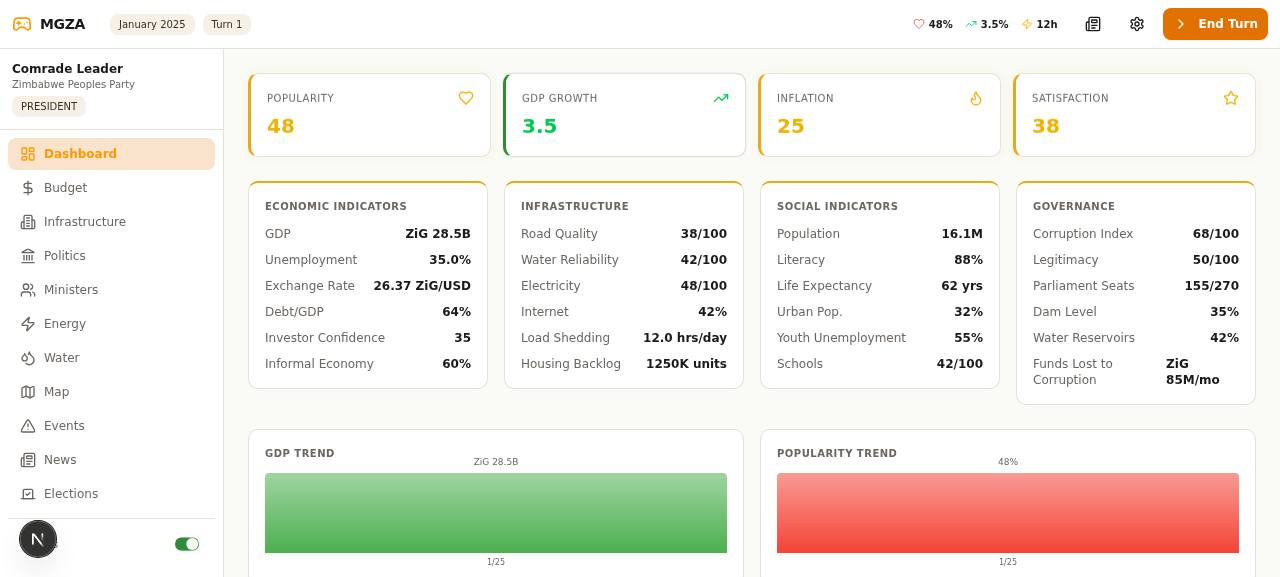
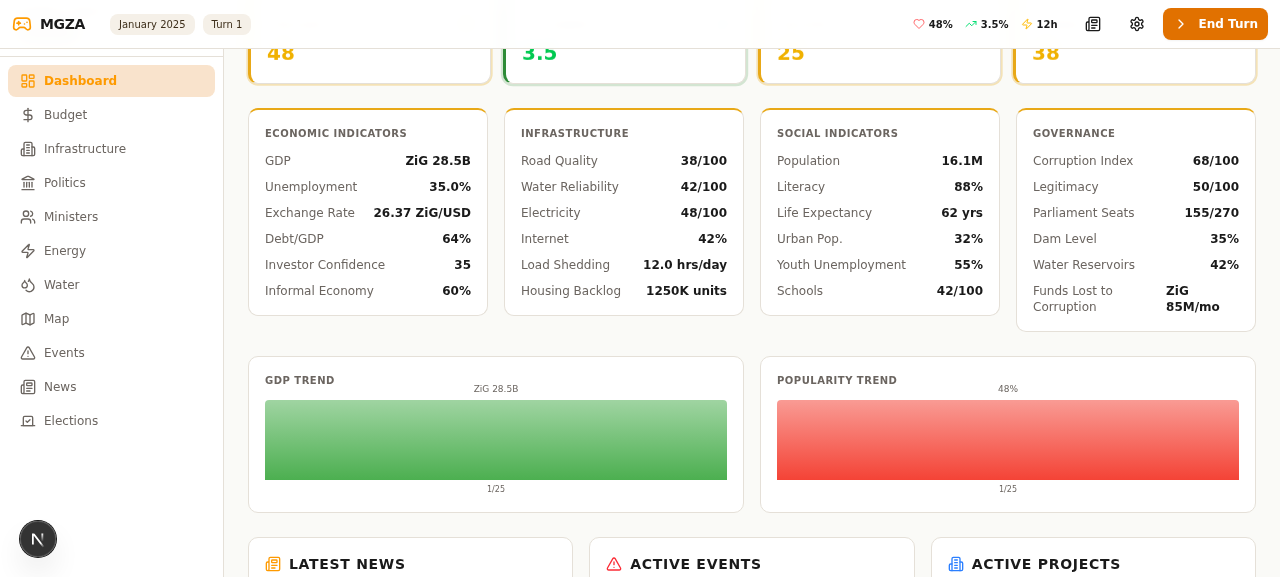
9d5519d6-0c13-4080-a3db-f02370916a15

diff --git a/src/app/page.tsx b/src/app/page.tsx
@@ -326,119 +326,76 @@ const FONT_SIZE_MAP: Record<FontSize, string> = {
 // Always renders wrapper div to prevent layout shift when toggling.
 // ═══════════════════════════════════════════════════════
 
+// Context for shared hover tip state: renders tip card in sidebar below Elections
+const TipHoverContext = React.createContext<{
+  hoveredTipId: string | null;
+  setHoveredTipId: (id: string | null) => void;
+}>({ hoveredTipId: null, setHoveredTipId: () => {} });
+
 function HoverTip({ tipId, children, screenId }: { tipId: string; children: React.ReactNode; screenId?: GameScreen }) {
   const { enableTips, currentScreen } = useGameStore();
-  const { getTip } = useTranslation();
-  const [show, setShow] = useState(false);
-  const [coords, setCoords] = useState({ top: 0, left: 0, arrowSide: 'top' as 'top' | 'bottom' });
   const gameTip = GAME_TIPS[tipId];
   const isActive = enableTips && gameTip && (!gameTip.screen || gameTip.screen === screenId || gameTip.screen === currentScreen);
-  const tip = getTip(tipId);
-  const triggerRef = useRef<HTMLDivElement>(null);
-
-  // Check if tip should render at all
-  // isActive already computed above using gameTip for screen check, tip for display
-
-  const updatePosition = useCallback(() => {
-    const el = triggerRef.current;
-    if (!el) return;
-    const rect = el.getBoundingClientRect();
-    const tipWidth = 320; // w-80 = 20rem = 320px
-    const tipHeight = 180; // approximate
-    const gap = 8;
-    const viewportHeight = window.innerHeight;
-    const viewportWidth = window.innerWidth;
-
-    // Prefer showing above, but flip below if no room
-    const showAbove = rect.top > tipHeight + gap + 50; // 50px buffer for header
-    const arrowSide = showAbove ? 'top' : 'bottom';
-
-    let top: number;
-    if (showAbove) {
-      top = rect.top - tipHeight - gap;
-    } else {
-      top = rect.bottom + gap;
-    }
-
-    // Center horizontally, but clamp to viewport edges
-    let left = rect.left + rect.width / 2 - tipWidth / 2;
-    left = Math.max(8, Math.min(left, viewportWidth - tipWidth - 8));
-
-    setCoords({ top: Math.max(4, top), left, arrowSide });
-  }, []);
+  const { setHoveredTipId } = React.useContext(TipHoverContext);
 
   const handleEnter = useCallback(() => {
     if (!isActive) return;
-    updatePosition();
-    setShow(true);
-  }, [isActive, updatePosition]);
+    setHoveredTipId(tipId);
+  }, [isActive, tipId, setHoveredTipId]);
 
-  const handleLeave = useCallback(() => setShow(false), []);
-
-  // Update position on scroll / resize while visible
-  useEffect(() => {
-    if (!show) return;
-    updatePosition();
-    const onScroll = () => updatePosition();
-    const onResize = () => updatePosition();
-    window.addEventListener('scroll', onScroll, true);
-    window.addEventListener('resize', onResize);
-    return () => {
-      window.removeEventListener('scroll', onScroll, true);
-      window.removeEventListener('resize', onResize);
-    };
-  }, [show, updatePosition]);
+  const handleLeave = useCallback(() => setHoveredTipId(null), [setHoveredTipId]);
 
   return (
     <div
-      ref={triggerRef}
       className="contents"
       onMouseEnter={handleEnter}
       onMouseLeave={handleLeave}
     >
       {children}
-      <AnimatePresence>
-        {show && isActive && (
-          <motion.div
-            initial={{ opacity: 0, scale: 0.92 }}
-            animate={{ opacity: 1, scale: 1 }}
-            exit={{ opacity: 0, scale: 0.92 }}
-            transition={{ duration: 0.12, ease: 'easeOut' }}
-            style={{ position: 'fixed', top: coords.top, left: coords.left, width: 320, zIndex: 9999 }}
-            className="pointer-events-none"
-          >
-            <div className="bg-popover border border-border rounded-lg shadow-xl p-3.5 text-left">
-              {/* Header */}
-              <div className="flex items-center gap-2 mb-2">
-                <div className="flex items-center justify-center w-6 h-6 rounded-md bg-amber-500/15 text-amber-500 shrink-0">
-                  <Lightbulb className="h-3.5 w-3.5" />
-                </div>
-                <h4 className="text-xs font-bold text-foreground">{tip.title}</h4>
-              </div>
-              {/* Description */}
-              <p className="text-[0.6875rem] text-muted-foreground leading-relaxed mb-2">{tip.description}</p>
-              {/* Strategy */}
-              <div className="border-t border-border/50 pt-2">
-                <div className="flex items-start gap-1.5">
-                  <Info className="h-3 w-3 text-amber-500 mt-0.5 shrink-0" />
-                  <p className="text-[0.625rem] text-amber-600 font-medium leading-relaxed">{tip.strategy}</p>
-                </div>
-              </div>
-            </div>
-            {/* Arrow */}
-            {coords.arrowSide === 'bottom' ? (
-              <div className="absolute bottom-full left-[var(--arrow-x)] -translate-x-1/2 -mb-px">
-                <div className="w-2 h-2 bg-popover border-l border-t border-border rotate-45" />
-              </div>
-            ) : (
-              <div className="absolute top-full left-[var(--arrow-x)] -translate-x-1/2 -mt-px">
-                <div className="w-2 h-2 bg-popover border-r border-b border-border rotate-45" />
-              </div>
-            )}
-          </motion.div>
-        )}
-      </AnimatePresence>
     </div>
+  );
+}
+
+// ═══════════════════════════════════════════════════════
+// HOVER TIP CARD (renders in sidebar below Elections)
+// ═══════════════════════════════════════════════════════
+
+function HoverTipCard() {
+  const { enableTips } = useGameStore();
+  const { getTip } = useTranslation();
+  const { hoveredTipId } = React.useContext(TipHoverContext);
+  const gameTip = hoveredTipId ? GAME_TIPS[hoveredTipId] : null;
+  const tip = gameTip ? getTip(hoveredTipId) : null;
+
+  if (!enableTips || !tip) return null;
+
+  return (
+    <AnimatePresence mode="wait">
+      <motion.div
+        key={hoveredTipId}
+        initial={{ opacity: 0, height: 0 }}
+        animate={{ opacity: 1, height: 'auto' }}
+        exit={{ opacity: 0, height: 0 }}
+        transition={{ duration: 0.15 }}
+        className="mx-1 mb-1"
+      >
+        <div className="bg-popover border border-border rounded-lg shadow-sm p-2.5 text-left">
+          <div className="flex items-center gap-2 mb-1.5">
+            <div className="flex items-center justify-center w-5 h-5 rounded-md bg-amber-500/15 text-amber-500 shrink-0">
+              <Lightbulb className="h-3 w-3" />
+            </div>
+            <h4 className="text-[0.625rem] font-bold text-foreground">{tip.title}</h4>
+          </div>
+          <p className="text-[0.5625rem] text-muted-foreground leading-relaxed mb-1.5">{tip.description}</p>
+          <div className="border-t border-border/50 pt-1.5">
+            <div className="flex items-start gap-1">
+              <Info className="h-2.5 w-2.5 text-amber-500 mt-0.5 shrink-0" />
+              <p className="text-[0.5625rem] text-amber-600 font-medium leading-relaxed">{tip.strategy}</p>
+            </div>
+          </div>
+        </div>
+      </motion.div>
+    </AnimatePresence>
   );
 }
 
@@ -1519,7 +1476,7 @@ function StartScreen() {
         <div className="w-full h-1" style={{ backgroundColor: '#2E8B37' }} />
         <div className="w-full h-1" style={{ backgroundColor: '#E8A817' }} />
         <div className="w-full h-1" style={{ backgroundColor: '#CC2936' }} />
-        <div className="w-full h-1" style={{ backgroundColor: '#1a1a1a' }} />
+        <div className="w-full h-1" style={{ backgroundColor: '#000000' }} />
       </div>
 
       {/* Settings bar */}
@@ -1612,7 +1569,7 @@ function StartScreen() {
             <div className="flex items-center justify-center gap-3 mb-4">
               <div className="relative">
                 <div className="text-6xl">🇿🇼</div>
-                <span className="absolute -bottom-1 -right-1 text-xs font-black text-[#1a1a1a]">ZW</span>
+                <span className="absolute -bottom-1 -right-1 text-xs font-black text-black">ZW</span>
               </div>
             </div>
             <h1 className="text-4xl md:text-5xl font-black tracking-tight mb-3">
@@ -1826,7 +1783,6 @@ function EventModal() {
   const { showEventModal, resolveEvent, setShowEventModal, endTurn } = useGameStore();
   const { t } = useTranslation();
   const [selectedChoice, setSelectedChoice] = useState<string | null>(null);
-  const [penaltyApplied, setPenaltyApplied] = useState(false);
 
   const event = showEventModal;
 
@@ -2257,20 +2213,13 @@ function TrendCard({ title, data, color, formatValue }: { title: string; data: {
 
 export default function GamePage() {
   const { gameState, currentScreen, setScreen, endTurn, isProcessingTurn, showNewGameDialog, setShowNewGameDialog, resetGame, enableTips, setEnableTips, fontSize, darkMode, setDarkMode } = useGameStore();
-  const { t, getTip } = useTranslation();
+  const { t } = useTranslation();
   const { setTheme } = useTheme();
   const [sidebarOpen, setSidebarOpen] = useState(false);
   const [showLog, setShowLog] = useState(false);
   const [showSettings, setShowSettings] = useState(false);
+  const [hoveredTipId, setHoveredTipId] = useState<string | null>(null);
   const mountedRef = useRef(false);
-
-  // Compute the active tip card for the sidebar (first matching tip for current screen)
-  const sidebarTip = enableTips ? (() => {
-    const match = Object.values(GAME_TIPS).find(
-      (tip) => !tip.screen || tip.screen === currentScreen
-    );
-    return match ? getTip(match.id) : null;
-  })() : null;
 
   const NAV_ITEMS = [
     { id: 'dashboard' as GameScreen, label: t('nav.dashboard'), icon: <LayoutDashboard className="h-4 w-4" /> },
@@ -2325,6 +2274,7 @@ export default function GamePage() {
   const { player, economic, energy, citizenSatisfaction } = gameState || {};
 
   return (
+    <TipHoverContext.Provider value={{ hoveredTipId, setHoveredTipId }}>
     <div className="min-h-screen bg-background flex flex-col">
       {/* Top Header */}
       <header className="sticky top-0 z-50 bg-card/95 backdrop-blur border-b border-border px-3 py-2">
@@ -2452,33 +2402,8 @@ export default function GamePage() {
                     )}
                   </button>
                 ))}
-                {/* Hover Tip Card — contextual advice below Elections */}
-                <Separator className="my-2" />
-                {sidebarTip ? (
-                  <motion.div
-                    key={currentScreen}
-                    initial={{ opacity: 0, height: 0 }}
-                    animate={{ opacity: 1, height: 'auto' }}
-                    exit={{ opacity: 0, height: 0 }}
-                    className="mx-1"
-                  >
-                    <div className="bg-popover border border-border rounded-lg shadow-sm p-2.5 text-left">
-                      <div className="flex items-center gap-2 mb-1.5">
-                        <div className="flex items-center justify-center w-5 h-5 rounded-md bg-amber-500/15 text-amber-500 shrink-0">
-                          <Lightbulb className="h-3 w-3" />
-                        </div>
-                        <h4 className="text-[0.625rem] font-bold text-foreground">{sidebarTip.title}</h4>
-                      </div>
-                      <p className="text-[0.5625rem] text-muted-foreground leading-relaxed mb-1.5">{sidebarTip.description}</p>
-                      <div className="border-t border-border/50 pt-1.5">
-                        <div className="flex items-start gap-1">
-                          <Info className="h-2.5 w-2.5 text-amber-500 mt-0.5 shrink-0" />
-                          <p className="text-[0.5625rem] text-amber-600 font-medium leading-relaxed">{sidebarTip.strategy}</p>
-                        </div>
-                      </div>
-                    </div>
-                  </motion.div>
-                ) : null}
+                {/* Hover Tip Card — appears below Elections when hovering on features */}
+                <HoverTipCard />
               </nav>
             </ScrollArea>
 
@@ -2558,11 +2483,12 @@ export default function GamePage() {
 
       {/* Footer */}
       <footer className="bg-card/95 backdrop-blur mt-auto">
-        <div className="w-full h-0.5" style={{ backgroundColor: '#2E8B37' }} />
+        <div className="w-full flex flex-col">
+          <div className="w-full h-0.5" style={{ backgroundColor: '#2E8B37' }} />\n          <div className="w-full h-0.5" style={{ backgroundColor: '#E8A817' }} />\n          <div className="w-full h-0.5" style={{ backgroundColor: '#CC2936' }} />\n          <div className="w-full h-0.5" style={{ backgroundColor: '#000000' }} />\n        </div>
         <div className="px-4 py-3">
           <div className="flex items-center justify-between text-[0.625rem] text-muted-foreground max-w-7xl mx-auto">
             <span className="flex items-center gap-1">
-              <Gamepad2 className="h-3 w-3 text-amber-500" /> Make Great Zimbabwe Again | v1.2
+              <Gamepad2 className="h-3 w-3 text-amber-500" /> Make Great Zimbabwe Again | v1.3
             </span>
             <span>{MONTH_NAMES[(player?.month || 1) - 1]} {player?.year || 2025} | Turn {(player?.turn || 1)} | {(citizenSatisfaction?.overall || 0).toFixed(0)}% Satisfaction</span>
           </div>
@@ -2575,5 +2501,6 @@ export default function GamePage() {
       <NewGameDialog open={showNewGameDialog} onOpenChange={setShowNewGameDialog} />
       <SettingsDialog open={showSettings} onOpenChange={setShowSettings} />
     </div>
+    </TipHoverContext.Provider>
   );
 }

diff --git a/src/lib/i18n.ts b/src/lib/i18n.ts
@@ -67,7 +67,7 @@ const en: Record<string, string> = {
   'start.winElectionsDesc': "Secure the people's mandate",
   'start.description': 'Begin your political career from Councillor to President. Navigate corruption, manage infrastructure, balance budgets, and make impossible decisions that shape the future of millions. There are no perfect choices, only trade-offs.',
   'start.startNewGame': 'Start New Game',
-  'start.footer': 'v1.2 | Made with ❤ for Zimbabwe',
+  'start.footer': 'v1.3 | Made with ❤ for Zimbabwe',
 
   // NEW GAME DIALOG
   'newGame.title': 'Start New Game',
@@ -437,7 +437,7 @@ const sn: Record<string, string> = {
   'start.winElectionsDesc': 'Tora ruvambo rwevanhu',
   'start.description': 'Tangira mutambo wako wepolitiki kubva pa Councillor kusvika pa President. Rwadza urombo, tarisa mabasa okuvaka, simbisa bhajeti, uye gadza sarudzo dzisingawoneki dzinotsaurira hutano hwemilioni. Hakuna sarudzo yakakwana, kuchingwa chete.',
   'start.startNewGame': 'Tanga Mutambo Mutsva',
-  'start.footer': 'v1.2 | Yakagadzirwa ne ❤ yeZimbabwe',
+  'start.footer': 'v1.3 | Yakagadzirwa ne ❤ yeZimbabwe',
 
   // NEW GAME DIALOG
   'newGame.title': 'Tanga Mutambo Mutsva',
@@ -807,7 +807,7 @@ const nd: Record<string, string> = {
   'start.winElectionsDesc': 'Thola umvuzo walabo',
   'start.description': 'Qala umsebenzi wakho wobuso kuCouncilli kusiya kuMongameli. Qalisa ukubamba ubuthi, phatha imisebenzi yokwakha, thengisa ibhajethi, nomebenza amaqhinga ayingakanani atshintshe isimo yamawalamaphoyisa. Akukho nqopho elifanele, kunokukho kungako.',
   'start.startNewGame': 'Qala Umdlalo Omusha',
-  'start.footer': 'v1.2 | Yakhiwe nge ❤ yeZimbabwe',
+  'start.footer': 'v1.3 | Yakhiwe nge ❤ yeZimbabwe',
 
   // NEW GAME DIALOG
   'newGame.title': 'Qala Umdlalo Omusha',

diff --git a/worklog.md b/worklog.md
@@ -118,3 +118,29 @@ Stage Summary:
 - Flag stripes: green, yellow, red, BLACK (4 stripes matching Zimbabwe flag)
 - ZW displayed in black text near flag (orange badge removed)
 - Version: v1.2
+---
+Task ID: 5
+Agent: main
+Task: Move hover tip card to sidebar below Elections, fix ZW/flag colors
+
+Work Log:
+- Added TipHoverContext (React.createContext) for shared hover state between HoverTip components and sidebar
+- Rewrote HoverTip component: removed floating fixed-position tooltip popup (motion.div with position:fixed), replaced with context-based approach that sets hoveredTipId on mouseEnter and clears on mouseLeave
+- Added HoverTipCard component: renders in sidebar below Elections, reads hoveredTipId from TipHoverContext, displays tip card with title/description/strategy using AnimatePresence animation
+- Wrapped GamePage return with TipHoverContext.Provider (hoveredTipId state in GamePage)
+- Removed static sidebarTip card (was showing unchanging tip based on current screen)
+- Removed sidebarTip computation variable from GamePage
+- Removed unused getTip from GamePage destructuring
+- Removed unused penaltyApplied state from EventModal
+- Fixed ZW text color from #1a1a1a (dark gray) to pure black (text-black)
+- Fixed flag 4th stripe from #1a1a1a to #000000 (pure black)
+- Added 4-stripe flag bar to game footer (green, yellow, red, black)
+- Bumped version from v1.2 to v1.3 in footer and all 3 language translations
+
+Stage Summary:
+- Hover tip cards now render inline in sidebar below Elections (not floating overlay)
+- Tip appears when hovering any HoverTip-wrapped element (stat cards, etc.) and disappears on mouse leave
+- No static tip card; tips are purely hover-driven
+- ZW text is pure black, flag 4th stripe is pure black
+- Footer has 4-stripe Zimbabwe flag bar
+- Version: v1.3
